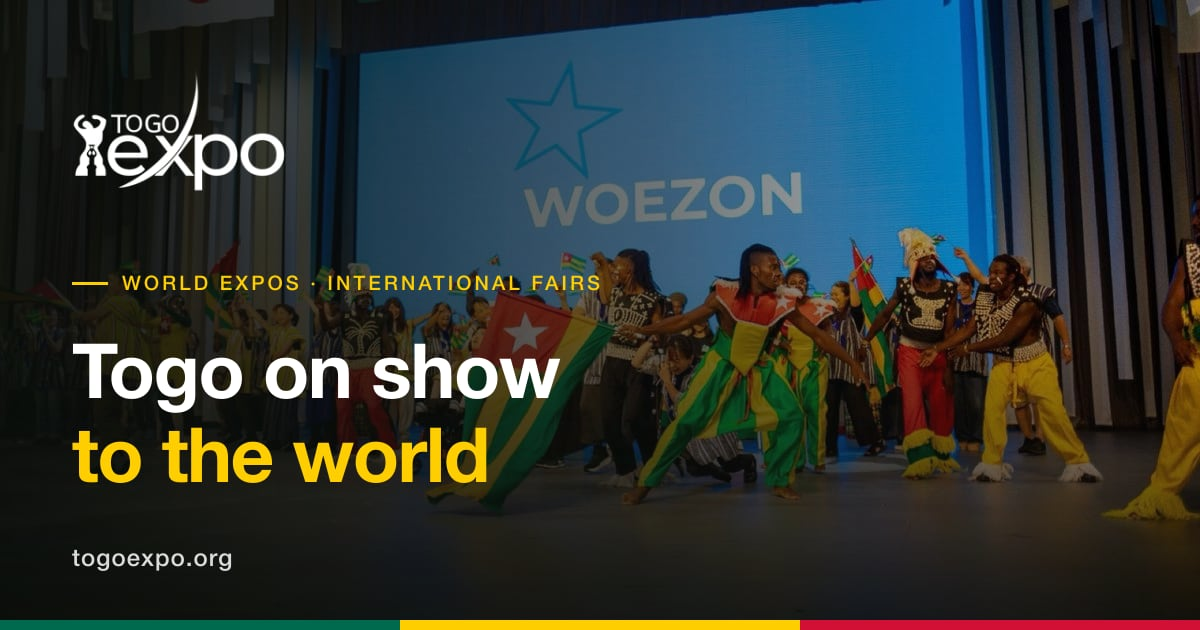
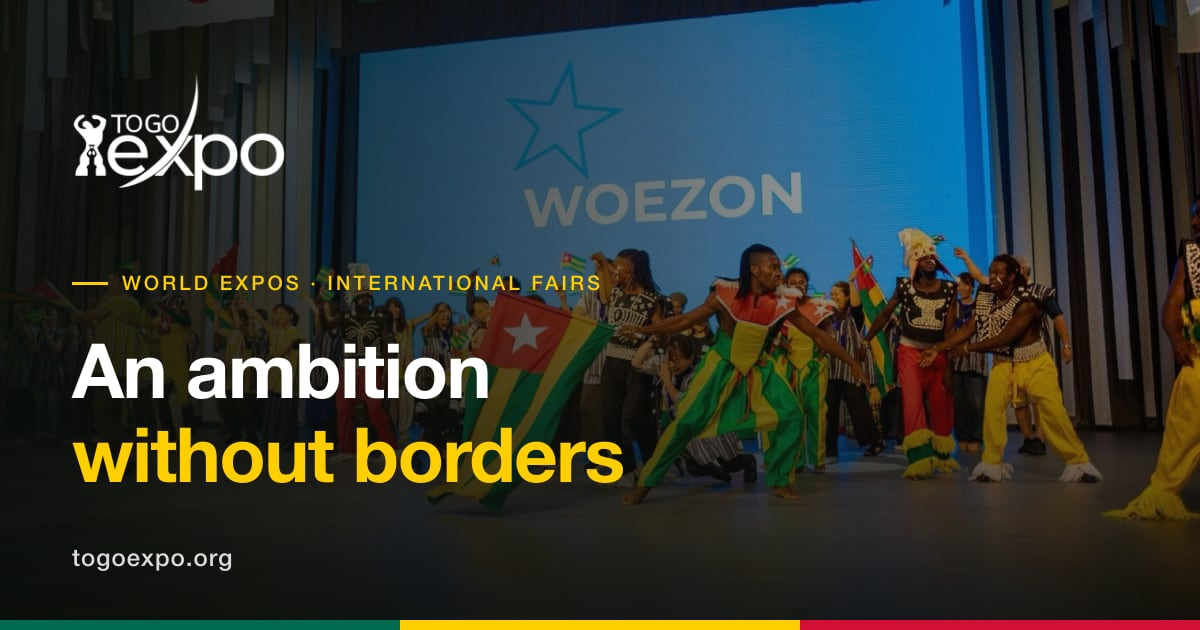
Aperçu au partage : « TogoExpo — Une ambition sans frontières »

Changed region(s): [[0.0617, 0.5429, 0.5242, 0.7841]]

diff --git a/frontend/src/i18n/dict.ts b/frontend/src/i18n/dict.ts
@@ -16,7 +16,7 @@ const fr = {
     homeTitle: 'TogoExpo — Le Togo aux Expositions universelles et foires internationales',
     homeDesc:
       'Portail officiel du Comité National Permanent chargé de la participation du Togo aux Expositions et Foires Internationales : calendrier, pavillons, culture, tourisme et opportunités d’investissement.',
-    ogTitle: 'TogoExpo — Le Togo s’expose au monde',
+    ogTitle: 'TogoExpo — Une ambition sans frontières',
     ogDesc:
       'Calendrier des expositions et foires où le Togo est présent, pavillons nationaux, culture, tourisme et économie togolaise.',
     ogKicker: 'EXPOSITIONS UNIVERSELLES',
@@ -1527,7 +1527,7 @@ const en: Dict = {
     homeTitle: 'TogoExpo — Togo at World Expos and international fairs',
     homeDesc:
       'Official portal of the Permanent National Committee in charge of Togo’s participation in International Exhibitions and Fairs: calendar, pavilions, culture, tourism and investment opportunities.',
-    ogTitle: 'TogoExpo — Togo on show to the world',
+    ogTitle: 'TogoExpo — An ambition without borders',
     ogDesc:
       'Calendar of exhibitions and fairs where Togo is present, national pavilions, Togolese culture, tourism and economy.',
     ogKicker: 'WORLD EXPOSITIONS',
@@ -3042,7 +3042,7 @@ const ja: Dict = {
     homeTitle: 'TogoExpo — 万国博覧会と国際見本市におけるトーゴ',
     homeDesc:
       'トーゴの万博・国際見本市への参加を担う常設国家委員会の公式ポータル。スケジュール、パビリオン、文化、観光、投資機会を紹介します。',
-    ogTitle: 'TogoExpo — 世界に発信するトーゴ',
+    ogTitle: 'TogoExpo — 国境なき志',
     ogDesc: 'トーゴが参加する博覧会・見本市の予定、ナショナルパビリオン、文化、観光、トーゴ経済。',
     ogKicker: '国際博覧会',
     ogTagline: '国際博覧会におけるトーゴ',

diff --git a/specs/47-apercu-partage.md b/specs/47-apercu-partage.md
@@ -11,7 +11,7 @@ X…) affiche un vrai aperçu.
 ## Fait
 - `frontend/scripts/og-image.mjs` (`npm run og`) : images 1200 × 630 dans
   `public/og/togoexpo-{fr,en,ja}.jpg` (photo Woezon, voile, logo, accroche
-  « Le Togo s'expose au monde » traduite, togoexpo.org, liseré aux couleurs du drapeau).
+  « Une ambition sans frontières » (traduite), togoexpo.org, liseré aux couleurs du drapeau).
   `opengraph-image.tsx` supprimé.
 - `src/lib/share.ts` : `withShare(lang, meta, opts)` ajoute `openGraph` et `twitter`
   (titre « … | TogoExpo », description, URL canonique, image) à chaque page.
